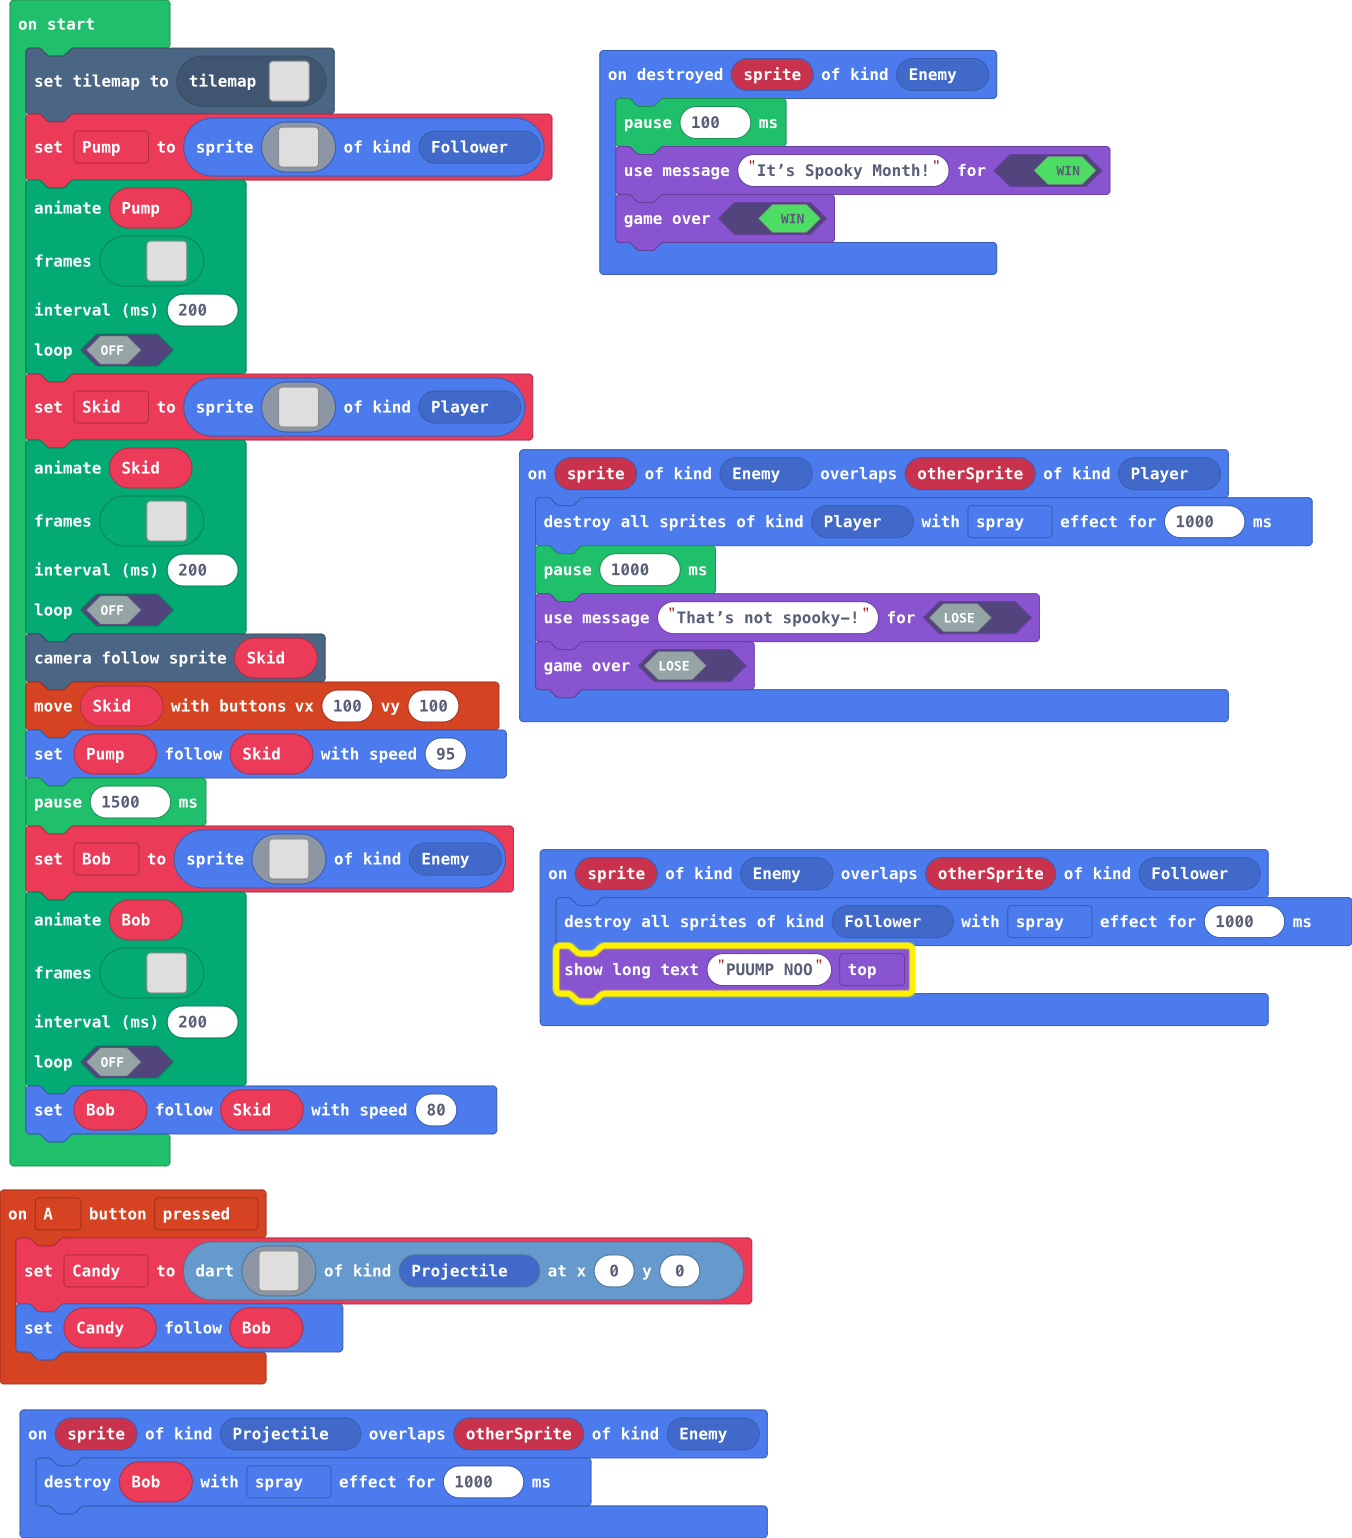
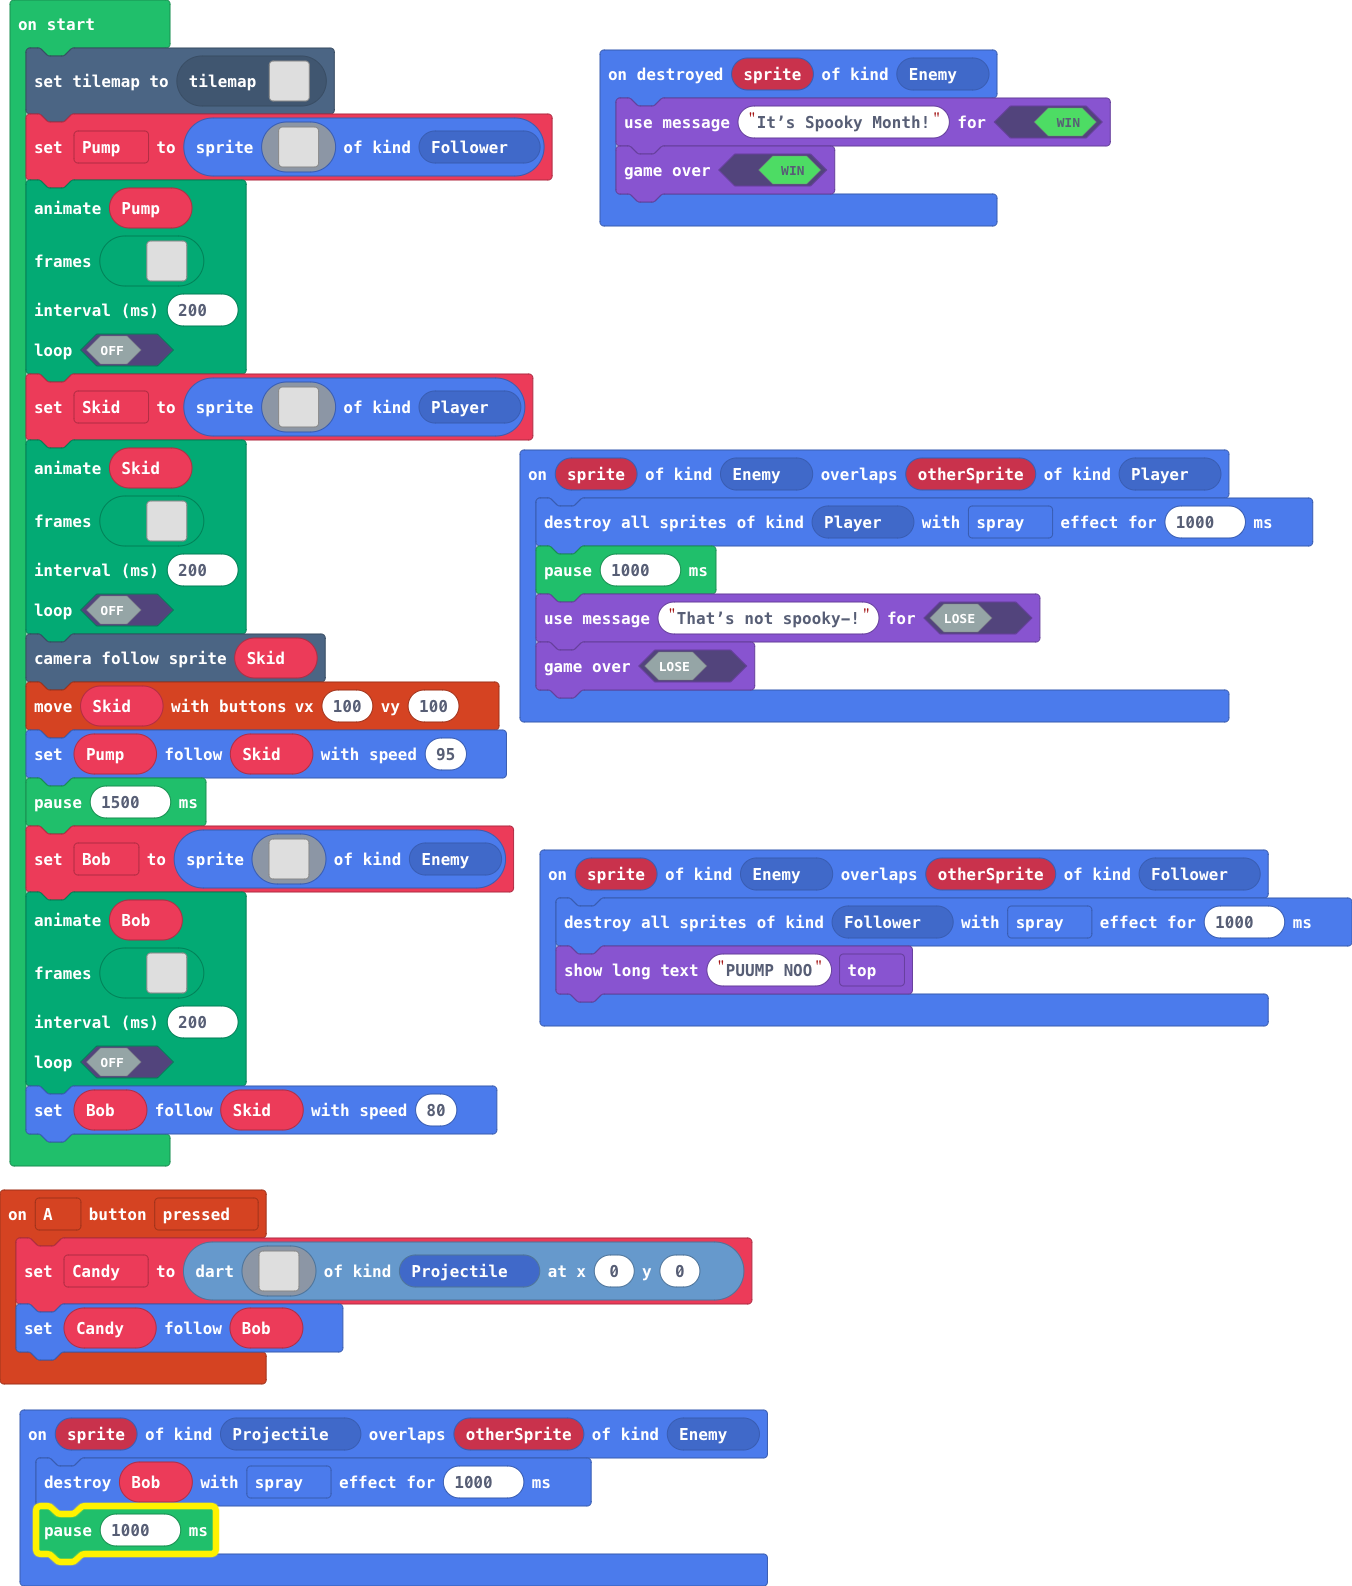
Update main.blocks, main.ts

diff --git a/main.ts b/main.ts
@@ -16,12 +16,12 @@ sprites.onOverlap(SpriteKind.Enemy, SpriteKind.Follower, function (sprite, other
     game.showLongText("PUUMP NOO", DialogLayout.Top)
 })
 sprites.onDestroyed(SpriteKind.Enemy, function (sprite) {
-    pause(100)
     game.setGameOverMessage(true, "It’s Spooky Month!")
     game.gameOver(true)
 })
 sprites.onOverlap(SpriteKind.Projectile, SpriteKind.Enemy, function (sprite, otherSprite) {
     sprites.destroy(Bob, effects.spray, 1000)
+    pause(1000)
 })
 let Candy: Dart = null
 let Bob: Sprite = null
